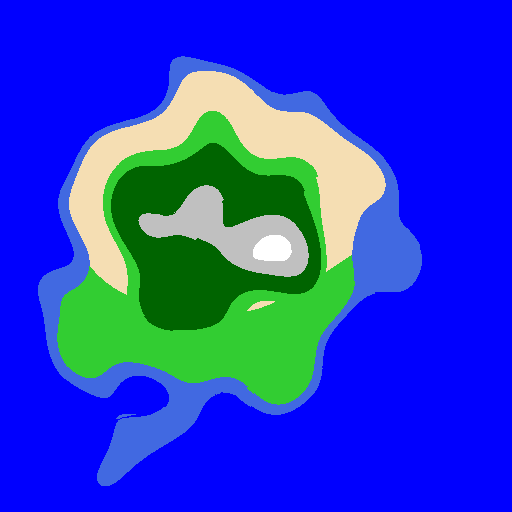
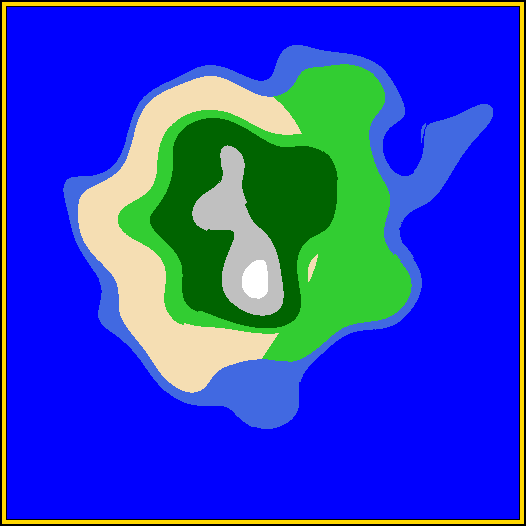
Add minimap border

diff --git a/generate_world.py b/generate_world.py
@@ -1,5 +1,6 @@
 import numpy as np
 import random
+from matplotlib import colors
 import noise
 
 from block import BiomeBlock
@@ -82,10 +83,23 @@ def world_init(size=1024, seed=1, island=True):
     return world_map
 
 
-def world_map_colors(world_map, size):
-    return np.array(
-        [[world_map[x, y].color() for x in range(size)] for y in range(size)]
+def world_map_colors(world_map, size, border=True):
+    def _gen_border(map2d, size, color):
+        return np.pad(map2d, pad_width=size, mode="constant", constant_values=color)
+
+    world_map = np.array(
+        [[world_map[x, y].biome.value for x in range(size)] for y in range(size)]
     )
+    if border:
+        world_map = _gen_border(world_map, 1, "black")
+        world_map = _gen_border(world_map, 4, "gold")
+        world_map = _gen_border(world_map, 2, "black")
+
+    size = len(world_map)
+    world_map = np.array(
+        [[colors.to_rgb(world_map[x, y]) for x in range(size)] for y in range(size)]
+    )
+    return world_map
 
 
 if __name__ == "__main__":
